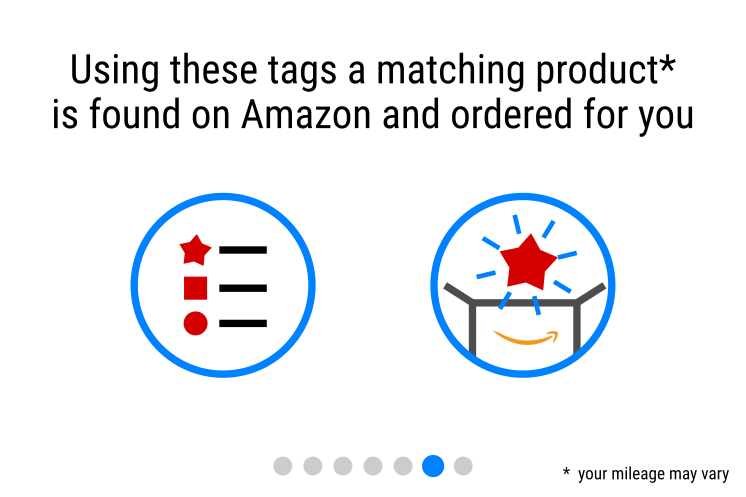
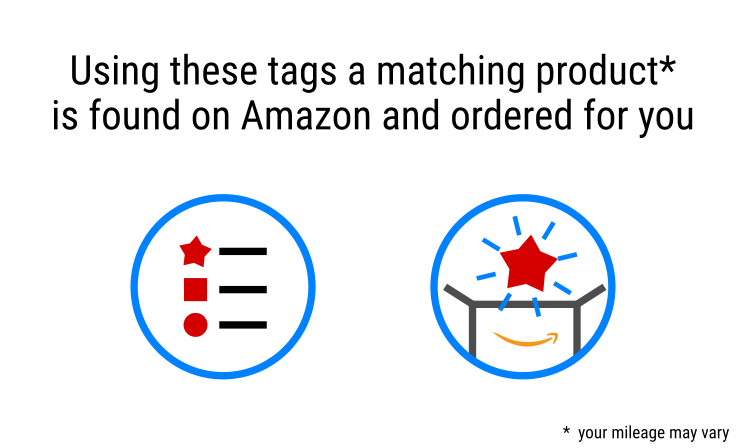
update info slides

diff --git a/public/css/stylesheet.css b/public/css/stylesheet.css
@@ -1,2 +1,2 @@
-body{margin:0;padding:0;overflow:hidden;font-family:'Roboto Condensed', sans-serif;background-color:#fafafa}.modal-dialog{background-color:#fafafa}.border-bottom-gray{border-bottom:1px solid #e7e7e7;margin-bottom:10px}.medium-avatar{margin-bottom:20px}.medium-avatar .spinner-border,.medium-avatar img{height:100px;width:100px}.medium-avatar .spinner-border{border-width:6px;color:red;position:absolute}#latestImageModal .influencer-name,#sideBySideModal .influencer-name{display:inline-block;font-size:30px;margin:0 10px 0 10px}.title-analyzing,.title-searching-amazon{font-size:26px;padding-top:100px;text-align:center}.title-analyzing .spinner-border,.title-searching-amazon .spinner-border{border-width:2px;height:100px;margin-top:30px;width:100px;color:red}.slide{display:none}.slide-1{display:block}#introModal .modal-dialog{margin-top:220px}.tags-top{font-style:italic;display:none}.influencers{display:flex;flex-wrap:wrap;justify-content:space-around;margin:10px}.influencers .influencer{flex-basis:6.66667%;flex-grow:0;flex-shrink:0;margin:10px;box-sizing:border-box;opacity:1.0;transition:opacity 1.5s linear}.influencers .influencer img{width:100%;height:100%;box-sizing:border-box}.influencers .influencer.selected{box-shadow:0px 0px 0px 12px red}.influencers .influencer.fade-out{opacity:0.3;transition:opacity 1.5s linear}.verified{width:20px;height:20px;margin-top:-5px}.loading-popup{font-size:30px;border-radius:20px;position:fixed;top:0;left:0;bottom:0;right:0;margin:auto;width:1000px;height:250px;background-color:white;-webkit-box-shadow:5px 5px 32px 0px rgba(0,0,0,0.75);-moz-box-shadow:5px 5px 32px 0px rgba(0,0,0,0.75);box-shadow:5px 5px 32px 0px rgba(0,0,0,0.75)}.loading-popup .content{margin:0;position:absolute;top:50%;left:50%;margin-right:-50%;transform:translate(-50%, -50%);text-align:center}.image-popup{font-size:30px;border-radius:20px;position:fixed;top:0;left:0;bottom:0;right:0;margin:auto;width:1000px;height:250px;background-color:white;-webkit-box-shadow:5px 5px 32px 0px rgba(0,0,0,0.75);-moz-box-shadow:5px 5px 32px 0px rgba(0,0,0,0.75);box-shadow:5px 5px 32px 0px rgba(0,0,0,0.75)}.image-popup .content{margin:0;position:absolute;top:50%;left:50%;margin-right:-50%;transform:translate(-50%, -50%);text-align:center}.latest-img{max-width:100%}.modal-avatar{width:60px;height:60px}.modal-influencer-name{float:left;margin-right:15px}#loadingModal,#analyzingModal{margin-top:350px}.modal-xxl{max-width:1800px !important}ul.tags{margin-top:20px;list-style-type:none;overflow:hidden;padding:0;text-align:center}li.tag{transition:opacity 1s;opacity:1;font-size:24px;margin-right:20px;display:inline;font-style:italic}li.hide-tag{opacity:0}#searchInstagramModal{margin-top:300px}
+body{margin:0;padding:0;overflow:hidden;font-family:'Roboto Condensed', sans-serif;background-color:#fafafa}.modal-dialog{background-color:#fafafa}.border-bottom-gray{border-bottom:1px solid #e7e7e7;margin-bottom:10px}.medium-avatar{margin-bottom:20px}.medium-avatar .spinner-border,.medium-avatar img{height:100px;width:100px}.medium-avatar .spinner-border{border-width:6px;color:red;position:absolute}#latestImageModal .influencer-name,#sideBySideModal .influencer-name{display:inline-block;font-size:30px;margin:0 10px 0 10px}.title-analyzing,.title-searching-amazon{font-size:26px;padding-top:100px;text-align:center}.title-analyzing .spinner-border,.title-searching-amazon .spinner-border{border-width:2px;height:100px;margin-top:30px;width:100px;color:red}.slide{display:none}.slide-1{display:block}.progressdot{display:none}.progressdot-1{display:block}#introModal .modal-dialog{margin-top:220px}.tags-top{font-style:italic;display:none}.influencers{display:flex;flex-wrap:wrap;justify-content:space-around;margin:10px}.influencers .influencer{flex-basis:6.66667%;flex-grow:0;flex-shrink:0;margin:10px;box-sizing:border-box;opacity:1.0;transition:opacity 1.5s linear}.influencers .influencer img{width:100%;height:100%;box-sizing:border-box}.influencers .influencer.selected{box-shadow:0px 0px 0px 12px red}.influencers .influencer.fade-out{opacity:0.3;transition:opacity 1.5s linear}.verified{width:20px;height:20px;margin-top:-5px}.loading-popup{font-size:30px;border-radius:20px;position:fixed;top:0;left:0;bottom:0;right:0;margin:auto;width:1000px;height:250px;background-color:white;-webkit-box-shadow:5px 5px 32px 0px rgba(0,0,0,0.75);-moz-box-shadow:5px 5px 32px 0px rgba(0,0,0,0.75);box-shadow:5px 5px 32px 0px rgba(0,0,0,0.75)}.loading-popup .content{margin:0;position:absolute;top:50%;left:50%;margin-right:-50%;transform:translate(-50%, -50%);text-align:center}.image-popup{font-size:30px;border-radius:20px;position:fixed;top:0;left:0;bottom:0;right:0;margin:auto;width:1000px;height:250px;background-color:white;-webkit-box-shadow:5px 5px 32px 0px rgba(0,0,0,0.75);-moz-box-shadow:5px 5px 32px 0px rgba(0,0,0,0.75);box-shadow:5px 5px 32px 0px rgba(0,0,0,0.75)}.image-popup .content{margin:0;position:absolute;top:50%;left:50%;margin-right:-50%;transform:translate(-50%, -50%);text-align:center}.latest-img{max-width:100%}.modal-avatar{width:60px;height:60px}.modal-influencer-name{float:left;margin-right:15px}#loadingModal,#analyzingModal{margin-top:350px}.modal-xxl{max-width:1800px !important}ul.tags{margin-top:20px;list-style-type:none;overflow:hidden;padding:0;text-align:center}li.tag{transition:opacity 1s;opacity:1;font-size:24px;margin-right:20px;display:inline;font-style:italic}li.hide-tag{opacity:0}#searchInstagramModal{margin-top:300px}
 /*# sourceMappingURL=stylesheet.css.map */

diff --git a/views/index.html b/views/index.html
@@ -26,13 +26,21 @@
   <div class="modal-dialog modal-lg" role="document">
     <div class="modal-content pb-2">
       <div class="modal-body">
-      	<img src="/images/slide-1.png" alt="" class="slide slide-1">
-      	<img src="/images/slide-2.png" alt="" class="slide slide-2">
-      	<img src="/images/slide-3.png" alt="" class="slide slide-3">
-      	<img src="/images/slide-4.png" alt="" class="slide slide-4">
-      	<img src="/images/slide-5.png" alt="" class="slide slide-5">
-      	<img src="/images/slide-6.png" alt="" class="slide slide-6">
-      	<img src="/images/slide-7.png" alt="" class="slide slide-7">
+      	<img src="/images/slide-1.png" alt="" class="slide slide-1"/>
+      	<img src="/images/slide-2.png" alt="" class="slide slide-2"/>
+      	<img src="/images/slide-3.png" alt="" class="slide slide-3"/>
+      	<img src="/images/slide-4.png" alt="" class="slide slide-4"/>
+      	<img src="/images/slide-5.png" alt="" class="slide slide-5"/>
+      	<img src="/images/slide-6.png" alt="" class="slide slide-6"/>
+      	<img src="/images/slide-7.png" alt="" class="slide slide-7"/>
+
+      	<img src="/images/progressdot-1.png" alt="" class="progressdot progressdot-1" />
+      	<img src="/images/progressdot-2.png" alt="" class="progressdot progressdot-2" />
+      	<img src="/images/progressdot-3.png" alt="" class="progressdot progressdot-3" />
+      	<img src="/images/progressdot-4.png" alt="" class="progressdot progressdot-4" />
+      	<img src="/images/progressdot-5.png" alt="" class="progressdot progressdot-5" />
+      	<img src="/images/progressdot-6.png" alt="" class="progressdot progressdot-6" />
+      	<img src="/images/progressdot-7.png" alt="" class="progressdot progressdot-7" />
       </div>
     </div>
   </div>

diff --git a/public/css/stylesheet.scss b/public/css/stylesheet.scss
@@ -64,34 +64,20 @@ body {
   }
 }
 
-// .slides, .slide {
-//   background-color: $color-white;
-//   box-sizing: border-box;
-//   height: 1080px;
-//   left: 0;
-//   margin: 0;
-//   padding: 0;
-//   position: absolute;
-//   top: 0;
-//   width: 1920px;
-//   z-index: 5000;
-
-//   img {
-//     width: 100%;
-//     height: 100%;
-//   }
-
-//   .slide-2, .slide-2 {
-//     display: none;
-//   }
-// }
-
 .slide {
   display: none;
 }
 .slide-1 {
   display: block;
 }
+
+.progressdot {
+  display: none;
+}
+.progressdot-1 {
+  display: block;
+}
+
 #introModal {
   .modal-dialog {
     margin-top: 220px;

diff --git a/public/js/script.js b/public/js/script.js
@@ -378,6 +378,7 @@ var slide_delays = [10000, 10000, 6, 10000, 10000, 10000, 10000];
 
 function next_slide(){
 	$('.slide-'+current_slide).fadeOut('fast', function(){
+		$('.progressdot-'+current_slide).hide();
 		current_slide++;
 		if (current_slide > slide_delays.length){
 			current_slide = 1;
@@ -385,6 +386,7 @@ function next_slide(){
 		$('.slide-'+current_slide).fadeIn('slow', function(){
 			setTimeout(next_slide, slide_delays[current_slide-1]);
 		});
+		$('.progressdot-'+current_slide).show();
 	});
 }
 setTimeout(next_slide, slide_delays[0]);
